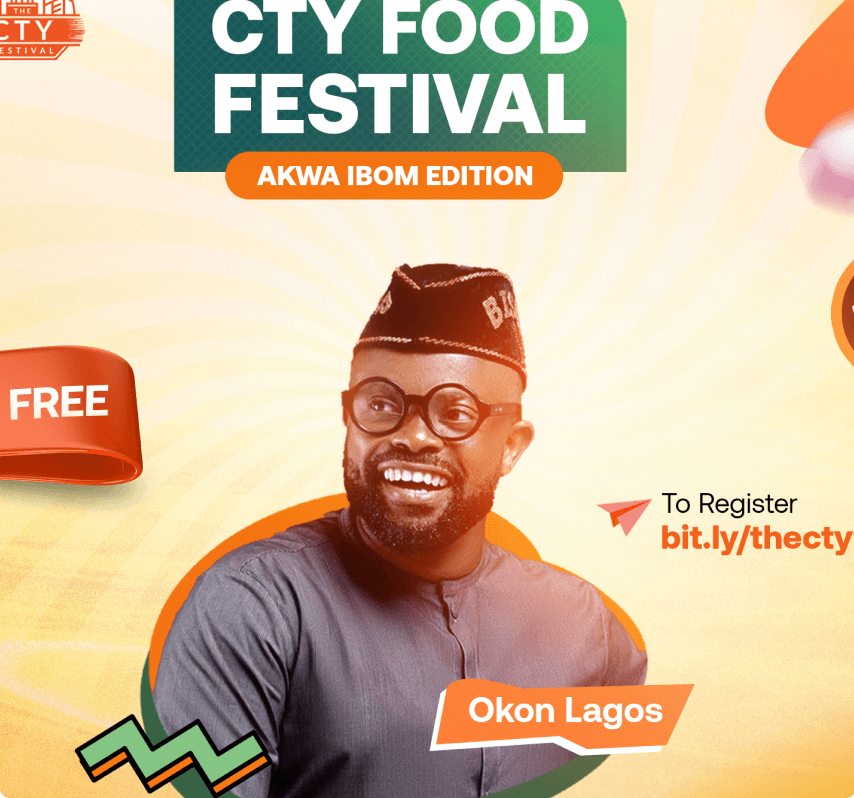
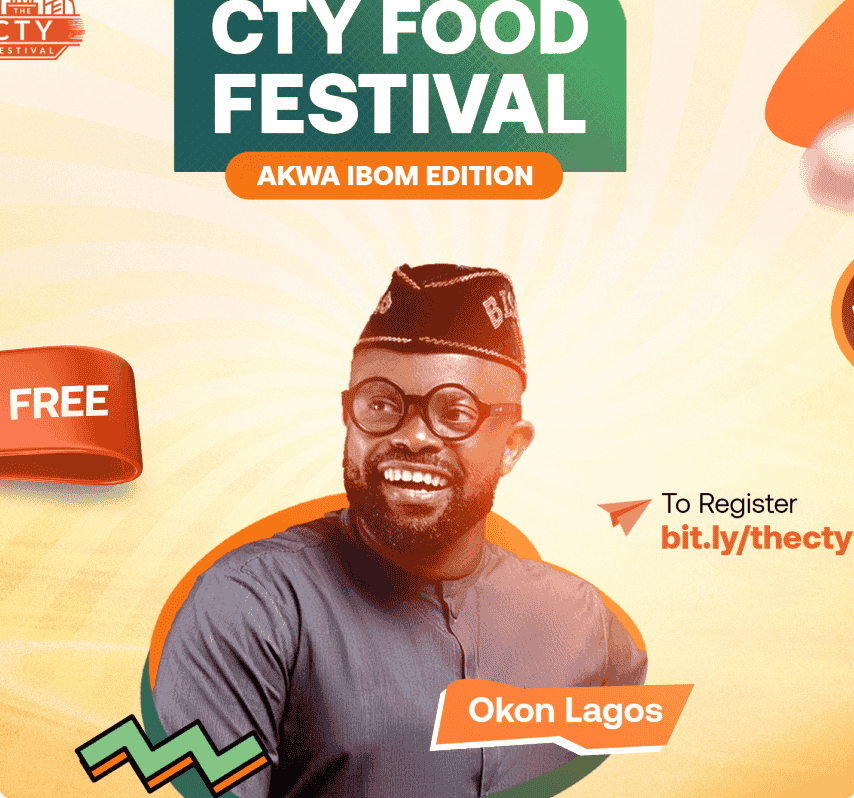
Resize the hero image size, add webP version of the hero image

diff --git a/src/components/shared/HeroNavBar.tsx b/src/components/shared/HeroNavBar.tsx
@@ -23,11 +23,12 @@ const HeroNavBar: React.FC<HeroNavBarProps> = ({ details }) => {
       justifyContent="space-between"
       overflowX="auto"
       whiteSpace="nowrap"
+      scrollBehavior="smooth"
       sx={{
-        // Hide scrollbar visually but still allow scrolling
-        "::-webkit-scrollbar": { display: "none" },
-        "-ms-overflow-style": "none",
-        "scrollbar-width": "none",
+        "::-webkit-scrollbar": { display: "none" }, // Hide scrollbar visually but allow scrolling
+        "-ms-overflow-style": "none", // Hide scrollbar in IE/Edge
+        "scrollbar-width": "none", // Hide scrollbar in Firefox
+        touchAction: "pan-x", // Allow smooth horizontal scrolling
       }}
     >
       {details.map((item, index) => {
@@ -39,24 +40,26 @@ const HeroNavBar: React.FC<HeroNavBarProps> = ({ details }) => {
             width="fit-content"
             textAlign="center"
             flexShrink={0}
-            _hover={{
-              cursor: "pointer",
-            }}
+            _hover={{ cursor: "pointer" }}
           >
             <Link to={item.path}>
-              <Flex alignItems="center">
+              <Flex
+                alignItems="center"
+                p={2}
+                transition="all 300ms ease-in-out"
+                _hover={{ backgroundColor: theme.colors.hoverBgColor }}
+                _focus={{ outline: "none" }}
+                _active={{ transform: "scale(0.98)" }}
+              >
                 <Text
                   fontWeight="bold"
                   fontSize={theme.fontSizes.md}
-                  p={4}
+                  px={4}
                   color={
                     isActiveTab
                       ? theme.colors.purpleTextColor
                       : theme.colors.colorWorkSpace
                   }
-                  _hover={{
-                    color: theme.colors.purpleTextColor,
-                  }}
                   transition="color 300ms ease-in-out"
                 >
                   {item.name}
@@ -66,8 +69,7 @@ const HeroNavBar: React.FC<HeroNavBarProps> = ({ details }) => {
                 <Box
                   width="6px"
                   height="6px"
-                  aspectRatio={1}
-                  ml={2}
+                  ml={1}
                   backgroundColor={isActiveTab ? "red" : "transparent"}
                   borderRadius="full"
                   transition="background-color 0.3s ease"

diff --git a/src/components/Hero.tsx b/src/components/Hero.tsx
@@ -8,10 +8,11 @@ import {
   useTheme,
 } from "@chakra-ui/react";
 import { MdLocationOn, MdOutlineDateRange } from "react-icons/md";
-import HeroImage from "../assets/images/CTY_event_banner.png";
+import HeroImagePng from "../assets/images/CTY_event_banner.png";
+import HeroImageWebP from "../assets/images/CTY_event_banner.webp";
+import HamburgerMenu from "./shared/HamburgerMenu";
 import { useState } from "react";
 import HeroNavBar from "./shared/HeroNavBar";
-import HamburgerMenu from "./shared/HamburgerMenu";
 
 /* Hero Figure Component */
 const HeroFigure: React.FC = () => {
@@ -23,16 +24,21 @@ const HeroFigure: React.FC = () => {
 
   return (
     <Box position="relative" overflow="hidden" maxHeight="700px">
-      <Image
-        src={HeroImage}
-        alt="CTY Food Festival, Akwa-Ibom Edition to be held in Lagos state. Admission is Free"
-        objectFit="cover"
-        width="100%"
-        height="auto"
-        maxH="700px"
-        loading="lazy"
-        decoding="async"
-      />
+      <picture>
+        <source srcSet={HeroImageWebP} type="image/webp" />
+        <source srcSet={HeroImagePng} type="image/png" />
+        <Image
+          src={HeroImagePng}
+          alt="CTY Food Festival, Akwa-Ibom Edition to be held in Lagos state. Admission is Free"
+          objectFit="cover"
+          width="100%"
+          height="auto"
+          maxH="700px"
+          loading="lazy"
+          decoding="async"
+        />
+      </picture>
+
       <HamburgerMenu onClick={handleMenuClick} />
 
       <Flex

diff --git a/index.html b/index.html
@@ -2,7 +2,7 @@
 <html lang="en">
   <head>
     <meta charset="UTF-8" />
-    <link rel="icon" type="image/svg+xml" href="/eventpadi-logo.png" />
+    <link rel="icon" type="image/svg+xml" href="/eventpadi-logo.ico" />
     <meta name="viewport" content="width=device-width, initial-scale=1.0" />
     <title>EventPadi</title>
     <link rel="preconnect" href="https://fonts.googleapis.com" />
